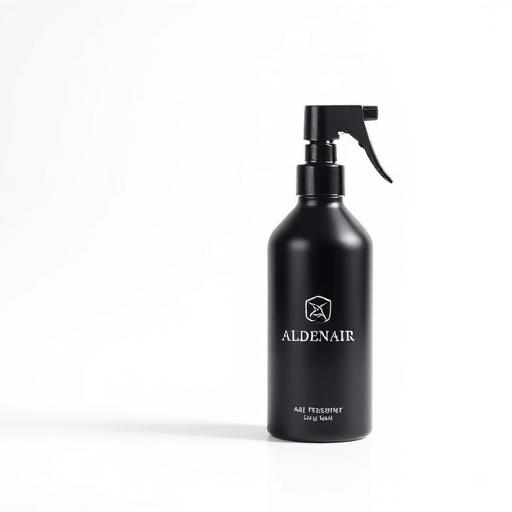
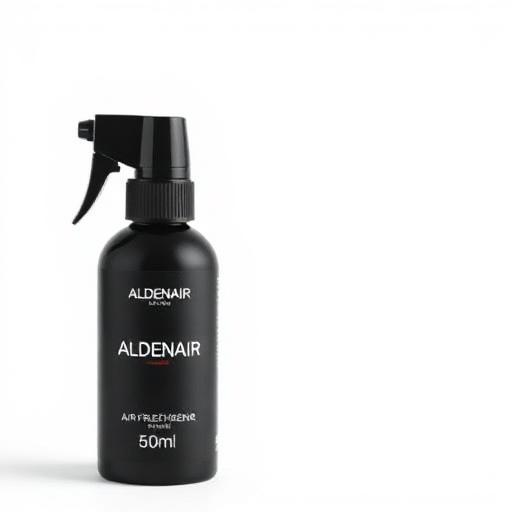
Add missing scents and set default product images
Add missing scents (999, 189, 390, 275, 695) to the Autoparfum product. Set the default product image for white to image 1 and for black to image 2, with black being the default selection.

Changed region(s): [[0.0312, 0.1875, 0.75, 0.9688], [0.75, 0.3438, 0.7812, 0.375]]

diff --git a/src/data/perfumes.ts b/src/data/perfumes.ts
@@ -194,7 +194,7 @@ export const perfumes: Perfume[] = [
     brand: 'ALDENAIR',
     category: 'Autoparfüm',
     size: '50ml',
-    image: autoparfumWhite,
+    image: autoparfumBlack,
     variants: [
       {
         id: 'auto-399-white',
@@ -237,6 +237,86 @@ export const perfumes: Perfume[] = [
         reviewCount: 76,
       },
       {
+        id: 'auto-999-white',
+        number: '999',
+        name: 'ALDENAIR Autoparfüm 999 - Weiß',
+        description: 'Harmonische Verbindung von holzigen und blumigen Elementen. Weißer Moschus und edles Sandelholz für eine elegante Autofahrt.',
+        price: 19.99,
+        inStock: true,
+        rating: 4.7,
+        reviewCount: 82,
+      },
+      {
+        id: 'auto-999-black',
+        number: '999',
+        name: 'ALDENAIR Autoparfüm 999 - Schwarz',
+        description: 'Harmonische Verbindung von holzigen und blumigen Elementen. Weißer Moschus und edles Sandelholz für eine elegante Autofahrt.',
+        price: 19.99,
+        inStock: true,
+        rating: 4.7,
+        reviewCount: 82,
+      },
+      {
+        id: 'auto-189-white',
+        number: '189',
+        name: 'ALDENAIR Autoparfüm 189 - Weiß',
+        description: 'Süßer Gourmand-Duft mit verlockenden Kaffee-Noten. Blumige Akzente und edle Rose für eine luxuriöse Autofahrt.',
+        price: 19.99,
+        inStock: true,
+        rating: 4.6,
+        reviewCount: 68,
+      },
+      {
+        id: 'auto-189-black',
+        number: '189',
+        name: 'ALDENAIR Autoparfüm 189 - Schwarz',
+        description: 'Süßer Gourmand-Duft mit verlockenden Kaffee-Noten. Blumige Akzente und edle Rose für eine luxuriöse Autofahrt.',
+        price: 19.99,
+        inStock: true,
+        rating: 4.6,
+        reviewCount: 68,
+      },
+      {
+        id: 'auto-390-white',
+        number: '390',
+        name: 'ALDENAIR Autoparfüm 390 - Weiß',
+        description: 'Cremig-holziger Duft mit süßen und rauchigen Facetten. Zimt und Vanille für eine warme, einladende Atmosphäre im Auto.',
+        price: 19.99,
+        inStock: true,
+        rating: 4.8,
+        reviewCount: 73,
+      },
+      {
+        id: 'auto-390-black',
+        number: '390',
+        name: 'ALDENAIR Autoparfüm 390 - Schwarz',
+        description: 'Cremig-holziger Duft mit süßen und rauchigen Facetten. Zimt und Vanille für eine warme, einladende Atmosphäre im Auto.',
+        price: 19.99,
+        inStock: true,
+        rating: 4.8,
+        reviewCount: 73,
+      },
+      {
+        id: 'auto-275-white',
+        number: '275',
+        name: 'ALDENAIR Autoparfüm 275 - Weiß',
+        description: 'Süß-fruchtiger Duft mit exotischen Nuancen. Fruchtige Noten und Kardamom für eine erfrischende Autofahrt.',
+        price: 19.99,
+        inStock: true,
+        rating: 4.5,
+        reviewCount: 65,
+      },
+      {
+        id: 'auto-275-black',
+        number: '275',
+        name: 'ALDENAIR Autoparfüm 275 - Schwarz',
+        description: 'Süß-fruchtiger Duft mit exotischen Nuancen. Fruchtige Noten und Kardamom für eine erfrischende Autofahrt.',
+        price: 19.99,
+        inStock: true,
+        rating: 4.5,
+        reviewCount: 65,
+      },
+      {
         id: 'auto-527-white',
         number: '527',
         name: 'ALDENAIR Autoparfüm 527 - Weiß',
@@ -255,6 +335,26 @@ export const perfumes: Perfume[] = [
         inStock: true,
         rating: 4.9,
         reviewCount: 92,
+      },
+      {
+        id: 'auto-695-white',
+        number: '695',
+        name: 'ALDENAIR Autoparfüm 695 - Weiß',
+        description: 'Aromatisch-fruchtiger Duft mit komplexer Komposition. Zitrusfrüchte und Minze für eine belebende Autofahrt.',
+        price: 19.99,
+        inStock: true,
+        rating: 4.7,
+        reviewCount: 78,
+      },
+      {
+        id: 'auto-695-black',
+        number: '695',
+        name: 'ALDENAIR Autoparfüm 695 - Schwarz',
+        description: 'Aromatisch-fruchtiger Duft mit komplexer Komposition. Zitrusfrüchte und Minze für eine belebende Autofahrt.',
+        price: 19.99,
+        inStock: true,
+        rating: 4.7,
+        reviewCount: 78,
       },
     ],
   },

diff --git a/src/components/AutoparfumCard.tsx b/src/components/AutoparfumCard.tsx
@@ -19,7 +19,7 @@ interface AutoparfumCardProps {
 
 export function AutoparfumCard({ perfume }: AutoparfumCardProps) {
   const [selectedScent, setSelectedScent] = useState<string>('399');
-  const [selectedColor, setSelectedColor] = useState<string>('white');
+  const [selectedColor, setSelectedColor] = useState<string>('black');
   const { addToCart } = useCart();
   const { isFavorite, toggleFavorite } = useFavorites();
   const { discount, roleLabel, loading } = useUserRole();
@@ -146,7 +146,12 @@ export function AutoparfumCard({ perfume }: AutoparfumCardProps) {
               <SelectContent className="bg-background border border-border shadow-lg">
                 <SelectItem value="399">ALDENAIR 399</SelectItem>
                 <SelectItem value="978">ALDENAIR 978</SelectItem>
+                <SelectItem value="999">ALDENAIR 999</SelectItem>
+                <SelectItem value="189">ALDENAIR 189</SelectItem>
+                <SelectItem value="390">ALDENAIR 390</SelectItem>
+                <SelectItem value="275">ALDENAIR 275</SelectItem>
                 <SelectItem value="527">ALDENAIR 527</SelectItem>
+                <SelectItem value="695">ALDENAIR 695</SelectItem>
               </SelectContent>
             </Select>
           </div>
